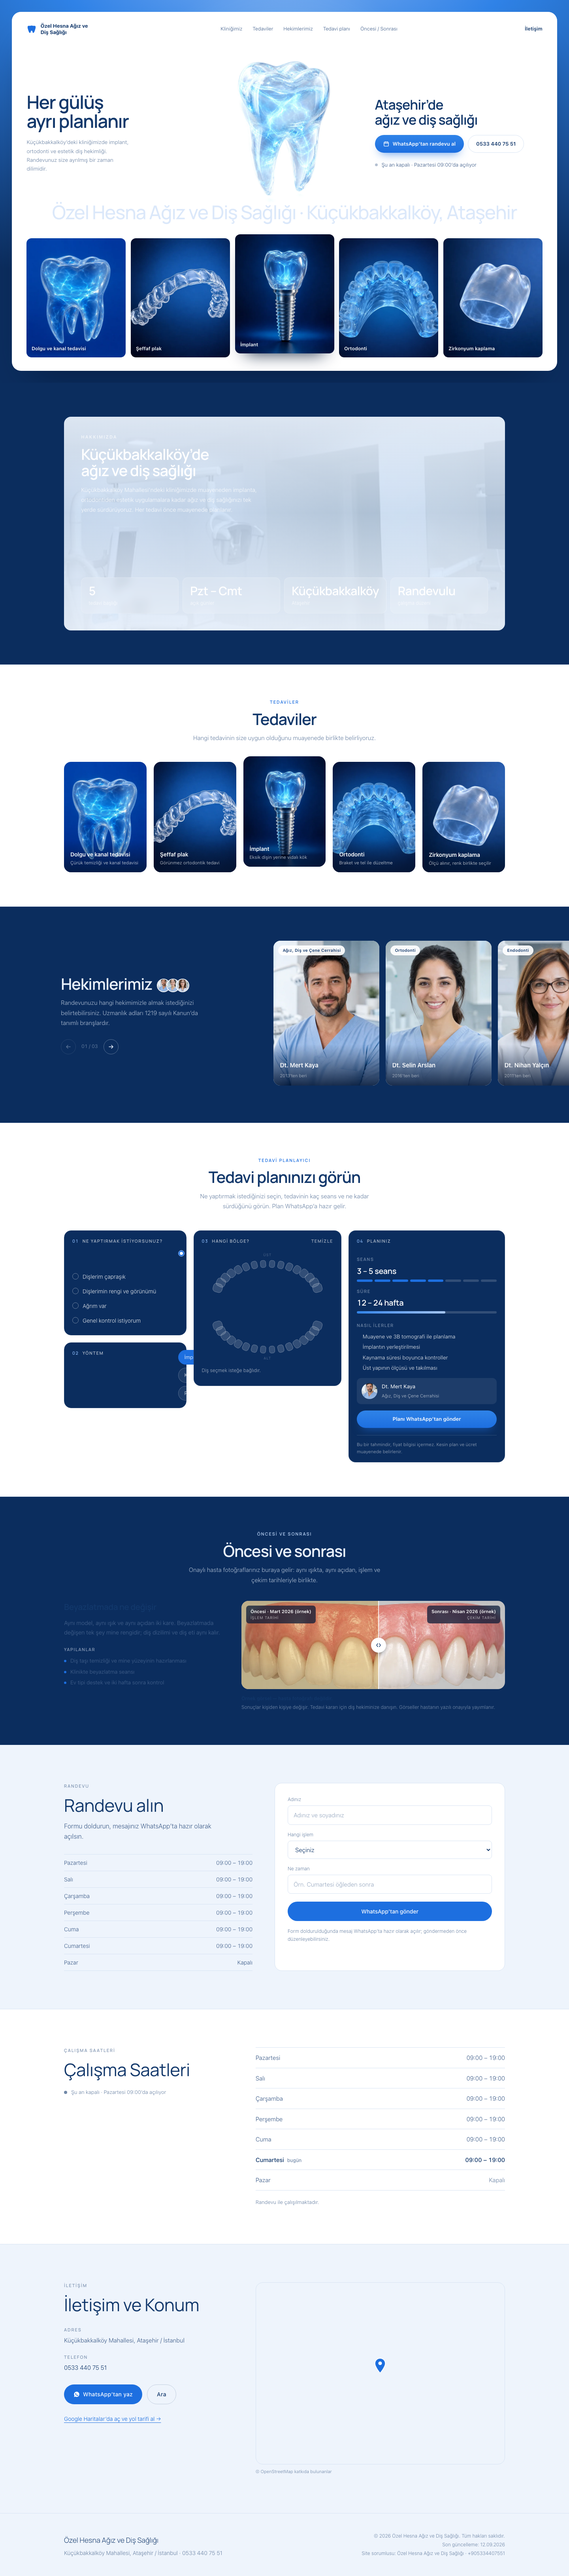
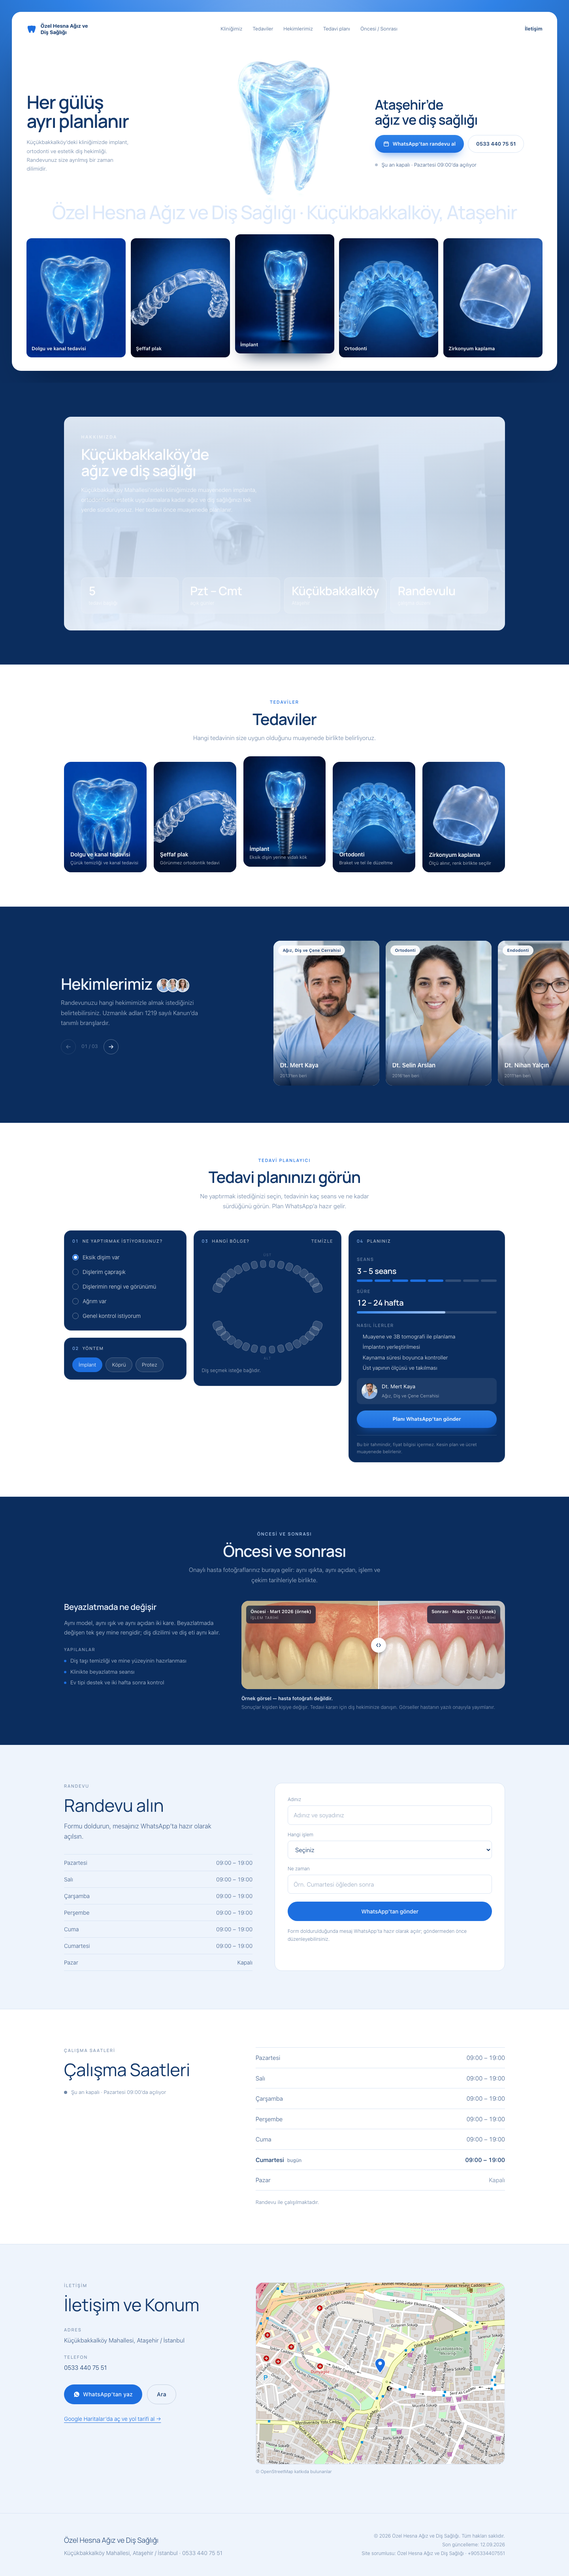
test(dental-cam): the regulation, as assertions
Eleven tests, each one an article. They are not style tests: the clinic carries
the fine, so the day someone copies the price list across from the beauty pack
the build goes red instead of the clinic going to a hearing.

Asserts what may not be published — no pricelist section, no money anywhere in
the content, no rating or review count even though the lead has 5,0 from 406, no
superiority claim, no title that is not in law — and what must be: both dates on
a before/after pair, the results-differ line, the last-updated date and the site
editor's contact.

Claude-Session: https://claude.ai/code/session_01UL9uqjKqxQhjSy3mrDu8AY

diff --git a/packs/dental/build.test.tsx b/packs/dental/build.test.tsx
@@ -1,0 +1,133 @@
+import { describe, expect, it } from "vitest";
+import { renderToStaticMarkup } from "react-dom/server";
+import { SiteContentSchema } from "@/lib/content/schema";
+import { Site } from "@/components/site/Site";
+import { buildDentalSite, TITLES } from "./build";
+
+/**
+ * These are not style tests.
+ *
+ * Sağlıkta Tanıtım ve Bilgilendirme Yönetmeliği (Resmî Gazete 12.11.2025, No. 33075)
+ * governs what a private health facility may publish, and the clinic — not us — carries
+ * the fine. Every assertion below is an article of it, so that the day someone copies a
+ * section across from the beauty pack, the build goes red instead of the clinic going
+ * to a hearing.
+ */
+const LEAD = {
+  business: "Özel Hesna Ağız ve Diş Sağlığı",
+  slug: "ozel-hesna-agiz-ve-dis-sagligi",
+  phone: "+905334407551",
+  waLink: null,
+  // The sheet has a rating for this lead. The site may not show it, which is the point.
+  rating: 5,
+  reviews: 406,
+  pctFive: 98,
+  social: null,
+  mapsPlace: null,
+  photo: "https://example.com/clinic.jpg",
+  neighborhood: "Küçükbakkalköy",
+  district: "Ataşehir",
+  lat: 40.9821,
+  lng: 29.1043,
+};
+
+const content = SiteContentSchema.parse(buildDentalSite(LEAD));
+const html = renderToStaticMarkup(
+  <Site content={content} now={new Date("2026-09-12T11:00:00Z")} />,
+);
+
+describe("what a dental site must not publish", () => {
+  it("has no price list section at all — m.5/1-l, m.5/1-m", () => {
+    expect(content.sections.some((section) => section.type === "pricelist")).toBe(false);
+    expect(html).not.toContain("Fiyat");
+    expect(html).not.toContain("₺");
+  });
+
+  it("quotes no money, discount or campaign anywhere in its content", () => {
+    const json = JSON.stringify(content);
+    for (const forbidden of [
+      /₺/,
+      /\bTL\b/,
+      /indirim/i,
+      /kampanya/i,
+      /ücretsiz/i,
+      /%\s*\d+\s*indirim/i,
+    ]) {
+      expect(json, `content matched ${forbidden}`).not.toMatch(forbidden);
+    }
+  });
+
+  it("shows no rating, review count or five-star figure — m.5/1-e", () => {
+    expect(content.sections.some((section) => section.type === "proof")).toBe(false);
+    // The numbers are in the lead and must not reach the page.
+    expect(html).not.toContain("406");
+    expect(html).not.toContain("değerlendirme");
+    expect(html).not.toContain("5,0");
+    expect(html).not.toMatch(/★/);
+  });
+
+  it("makes no superiority or comparative claim — m.5/1-c", () => {
+    const json = JSON.stringify(content);
+    for (const forbidden of [/en iyi/i, /lider/i, /bir numara/i, /rakip/i, /memnuniyet oranı/i]) {
+      expect(json, `content matched ${forbidden}`).not.toMatch(forbidden);
+    }
+  });
+
+  it("gives every clinician a title that exists in law — m.5/1-d", () => {
+    const team = content.sections.find((section) => section.type === "team");
+    expect(team).toBeDefined();
+    for (const member of team!.members) {
+      expect(TITLES as readonly string[]).toContain(member.role);
+    }
+  });
+});
+
+describe("what a dental site must publish", () => {
+  it("carries a last-updated date and the site editor's contact — m.5/1-i", () => {
+    expect(content.updatedAt).toMatch(/^\d{4}-\d{2}-\d{2}$/);
+    expect(content.business.editor).toContain(LEAD.phone);
+    expect(html).toContain("Son güncelleme");
+    expect(html).toContain("Site sorumlusu");
+  });
+
+  it("stamps both dates on a before/after pair and disclaims the result — m.7/1", () => {
+    const pairs = content.sections.find((section) => section.type === "beforeAfter");
+    expect(pairs).toBeDefined();
+    expect(pairs!.disclaimer).toMatch(/kişiden kişiye değişir/);
+    for (const item of pairs!.cases) {
+      expect(item.procedureDate.length).toBeGreaterThan(0);
+      expect(item.photoDate.length).toBeGreaterThan(0);
+    }
+    // Written lower-case and uppercased in CSS, so assert what is actually in the markup —
+    // JavaScript's toLowerCase turns İ into i plus a combining dot, which matches nothing.
+    expect(html).toContain("işlem tarihi");
+    expect(html).toContain("çekim tarihi");
+  });
+
+  it("says so when a pair is a rendering rather than a patient", () => {
+    const pairs = content.sections.find((section) => section.type === "beforeAfter")!;
+    expect(pairs.cases[0].illustration).toBe(true);
+    expect(html).toContain("hasta fotoğrafı değildir");
+  });
+});
+
+describe("the dental site itself", () => {
+  it("renders the planner, the treatments and the specialists", () => {
+    for (const id of ["klinik", "tedaviler", "hekimler", "plan", "oncesi-sonrasi", "iletisim"]) {
+      expect(html, `missing section #${id}`).toContain(`id="${id}"`);
+    }
+  });
+
+  it("keeps the appointment route open on every device", () => {
+    expect(html).toContain('data-cta="whatsapp"');
+    expect(html).toContain('data-cta="call"');
+    expect(html).toContain(LEAD.phone);
+  });
+
+  it("uses the pack's own photography, not the lead's one storefront snap, for treatments", () => {
+    const treatments = content.sections.find((section) => section.type === "treatments")!;
+    for (const item of treatments.items) {
+      expect(item.image.src).toMatch(/^\/stock\/dental\//);
+    }
+  });
+});

diff --git a/docs/DECISIONS.md b/docs/DECISIONS.md
@@ -55,3 +55,9 @@ Append-only. One line per decision, newest last.
 2026-09-08 — Studio client components are named exports, never properties hung off another component. `<LeadsTools.AddLead />` crashed /studio/leads in production with "Element type is invalid": across the server/client boundary a "use client" module becomes a reference proxy carrying only its exports, so the property arrived undefined. app/studio/studio.test.ts guards the shape.
 2026-09-08 — `npm run eject` copies public/stock and leaves root-relative image paths alone. It was calling fetch() on "/stock/…", which throws — eject was broken outright for every template that ships with its own photography, i.e. all six salon templates.
 2026-09-08 — The Kesim cut-out's background model is fitted in two dimensions, not interpolated between the left and right margins. The seamless paper has a lit pool around her feet that no left-to-right blend predicts, so that slab of floor read as far from the model as she did and the cut-out carried a hard-edged beige puddle around her shoes. The paper is now averaged over a coarse grid with her masked out, grown into the cells she covers, and smoothed back up. work/design-v3/cutout/ holds the script and its source render.
+2026-09-12 — The dental pack is its own information architecture, not a recoloured beauty pack. Sağlıkta Tanıtım ve Bilgilendirme Yönetmeliği (RG 12.11.2025, No. 33075) removes the price list (m.5/1-l, m.5/1-m), the rating band (m.5/1-e) and any superiority claim (m.5/1-c) from a Turkish clinic's site, permits before/after under conditions (m.7/1), and requires a last-updated date and the site editor's contact (m.5/1-i). packs/dental/build.test.tsx asserts each of those as a test, because the clinic carries the fine and not us.
+2026-09-12 — The treatment planner is what a dental site has instead of a price list. It publishes visit counts and durations — information about a procedure — and ends in a prefilled WhatsApp message. A test asserts the message can never contain money.
+2026-09-12 — The planner's chart is FDI two-digit notation drawn from an ellipse rather than hand-authored paths, so the arch stays correct if the proportions change, and a visitor recognises the same chart their dentist writes on.
+2026-09-12 — The cam preset's ground is light and the deep blue is painted by the sections that want it. A blue `ground` made every generic section shared with beauty — booking, hours, contact, footer — render dark ink on dark blue.
+2026-09-12 — The hero molar sits on the white card under mix-blend-mode: multiply with its render backdrop pulled to pure white, which composites transparent glass with no cut-out — matting transparency is the one thing the cut-out pipeline cannot do well.
+2026-09-12 — tsconfig excludes clients/: an ejected client repo carries its own vendored copy of the render layer and breaks typecheck the moment this project moves ahead of what was ejected.
